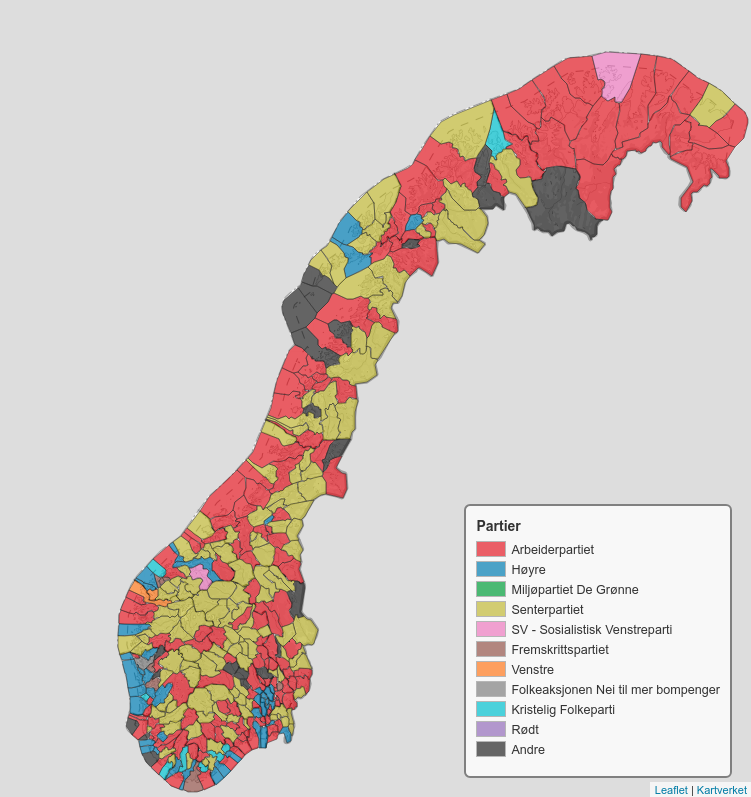
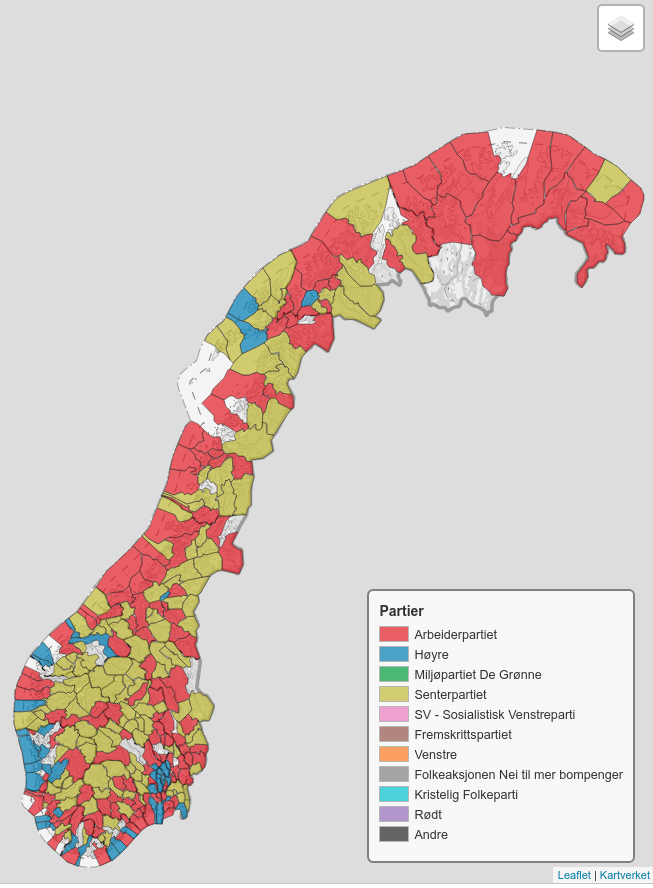
Updated script to work with csv raw data.

diff --git a/map_partier_kommuner.py b/map_partier_kommuner.py
@@ -3,8 +3,13 @@
 """Create a map showing for which municipalities a given party is largest."""
 import pathlib
 import sys
-import pandas as pd
-from map_basics import produce_map, load_json_file, create_tool_tip
+from slugify import slugify
+from map_basics import (
+    produce_map,
+    load_json_file,
+    create_tool_tip,
+    read_csv_results,
+)
 
 
 # Define paths to the raw geojson files:
@@ -12,47 +17,61 @@ KOMMUNE_DIR = pathlib.Path('kommuner')
 KOMMUNE_KRETS = 'kommune-{}.geojson'
 
 
-def get_geojson_data(result_files):
+def extract_data(results, party):
+    """Extract the data we want from the results."""
+    area = {}
+    alle_kommuner = [
+        i for i in results.groupby(['Kommunenummer']).groups.keys()
+    ]
+    for kommune in alle_kommuner:
+        kommune_data = results[results['Kommunenummer'] == kommune]
+        idx = kommune_data['Oppslutning prosentvis'].idxmax()
+        row = results.iloc[idx, :]
+        if row['Partinavn'] == party:
+            area[kommune] = {
+                'partinavn': row['Partinavn'],
+                'oppslutning': row['Oppslutning prosentvis'],
+                'kommunenavn': row['Kommunenavn']
+            }
+    return area
+
+
+def get_geojson_data(raw_data, parties):
     """Read in result files and produce corresponding geojson data."""
+    results = read_csv_results(raw_data)
     all_geojson_data = []
     tooltip = []
-    for result_file in result_files:
-        print('Reading file "{}"'.format(result_file))
+
+    for party in parties:
+        print('Adding for party "{}"'.format(party))
         new_data = {'features': []}
-        results = pd.read_json(result_file)
-        # The input data is assumed to be structured so that it only
-        # contains data for one party:
-        parti = results['Partinavn'].tolist()[0]
-        for _, row in results.iterrows():
-            kommune = str(int(row['Kommunenummer']))
-            oppslutning = row['Oppslutning prosentvis']
-            kommune_id = '{}'.format(kommune).rjust(4, '0')
-            geojson_file = KOMMUNE_DIR.joinpath(
-                KOMMUNE_KRETS.format(kommune_id)
+        area = extract_data(results, party)
+        for kommune, kommune_data in area.items():
+            print('Reading data for "{}"'.format(kommune_data['kommunenavn']))
+            geojson_data = load_json_file(
+                KOMMUNE_DIR.joinpath(KOMMUNE_KRETS.format(kommune))
             )
-            geojson_data = load_json_file(geojson_file)
             for key in ('crs', 'type'):
                 if key not in new_data:
                     new_data[key] = geojson_data[key]
             for feature in geojson_data['features']:
-                feature['properties']['partinavn'] = parti
+                feature['properties']['partinavn'] = kommune_data['partinavn']
                 feature['properties']['kommunenavn'] = (
-                    feature['properties']['navn'][0]['navn']
+                    kommune_data['kommunenavn']
                 )
                 feature['properties']['oppslutning'] = '{:4.2f} %'.format(
-                    oppslutning
+                    kommune_data['oppslutning']
                 )
                 new_data['features'].append(feature)
         if new_data['features']:
-            all_geojson_data.append((parti, new_data))
-        tooltip.append(
-            create_tool_tip(
-                ('kommunenavn', 'partinavn', 'oppslutning'),
-                ('Kommune:', 'Største parti:', 'Oppslutning:'),
-                labels=False,
+            all_geojson_data.append((party, new_data))
+            tooltip.append(
+                create_tool_tip(
+                    ('kommunenavn', 'partinavn', 'oppslutning'),
+                    ('Kommune:', 'Største parti:', 'Oppslutning:'),
+                    labels=False,
+                )
             )
-        )
-
     map_settings = {
         'center': [63.0, 10.0],
         'zoom': 10,
@@ -61,16 +80,15 @@ def get_geojson_data(result_files):
     return all_geojson_data, map_settings
 
 
-def main(result_files):
+def main(raw_data, parties):
     """Read input files and create the map."""
-    geojson_layers, map_settings = get_geojson_data(result_files)
-    if len(result_files) == 1:
-        filename = pathlib.Path(result_files[0]).stem
-        out = '{}.html'.format(filename)
+    geojson_layers, map_settings = get_geojson_data(raw_data, parties)
+    if len(parties) == 1:
+        out = 'kommuner-{}.html'.format(slugify(parties[0]))
     else:
         out = 'map-partier-kommuner.html'
     produce_map(geojson_layers, map_settings, output=out)
 
 
 if __name__ == '__main__':
-    main(sys.argv[1:])
+    main(sys.argv[1], sys.argv[2:])
